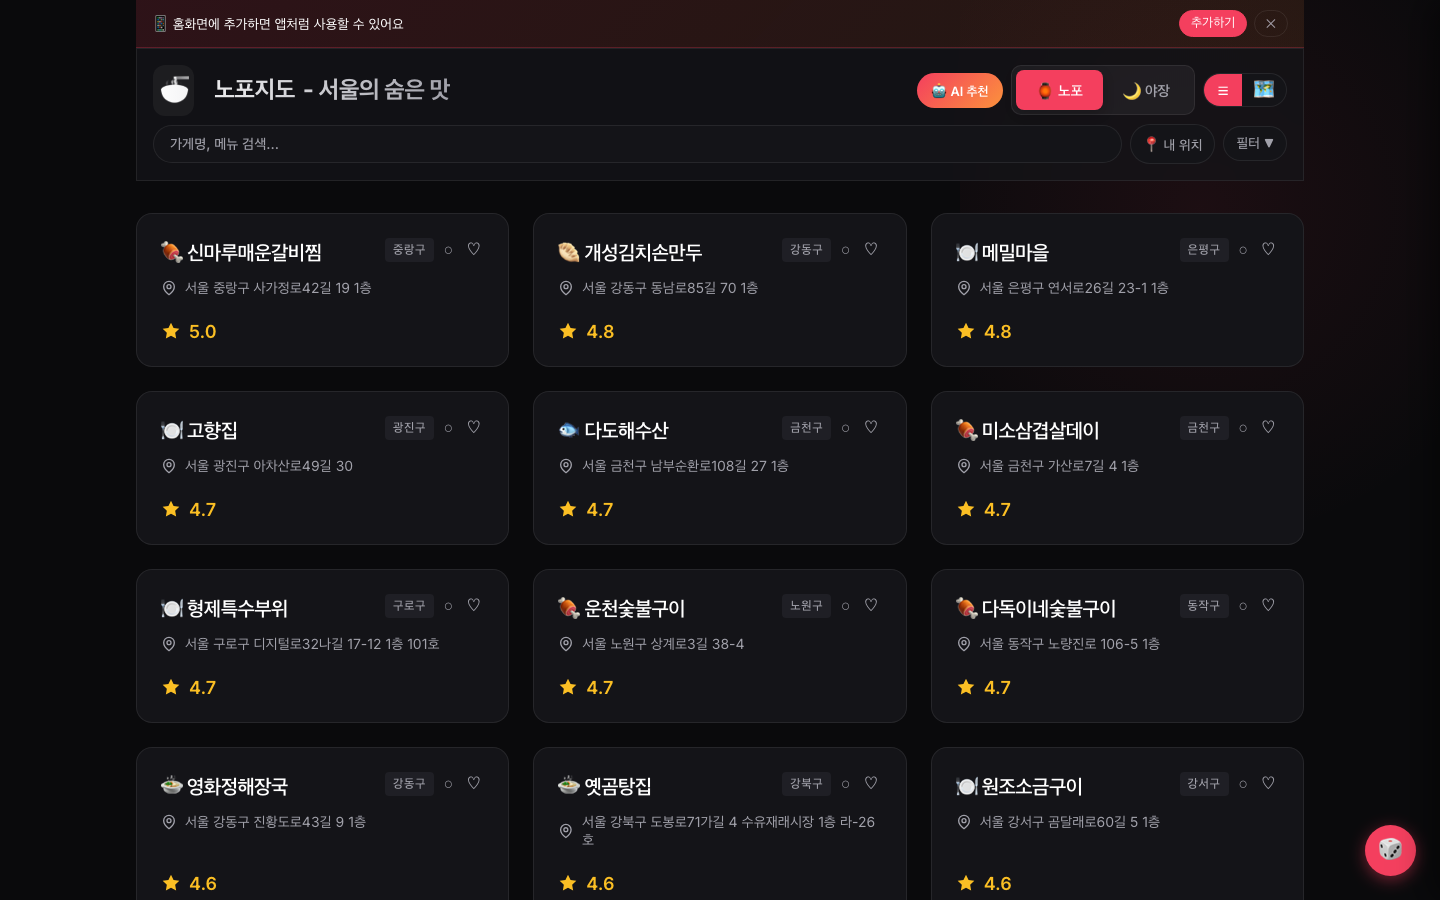
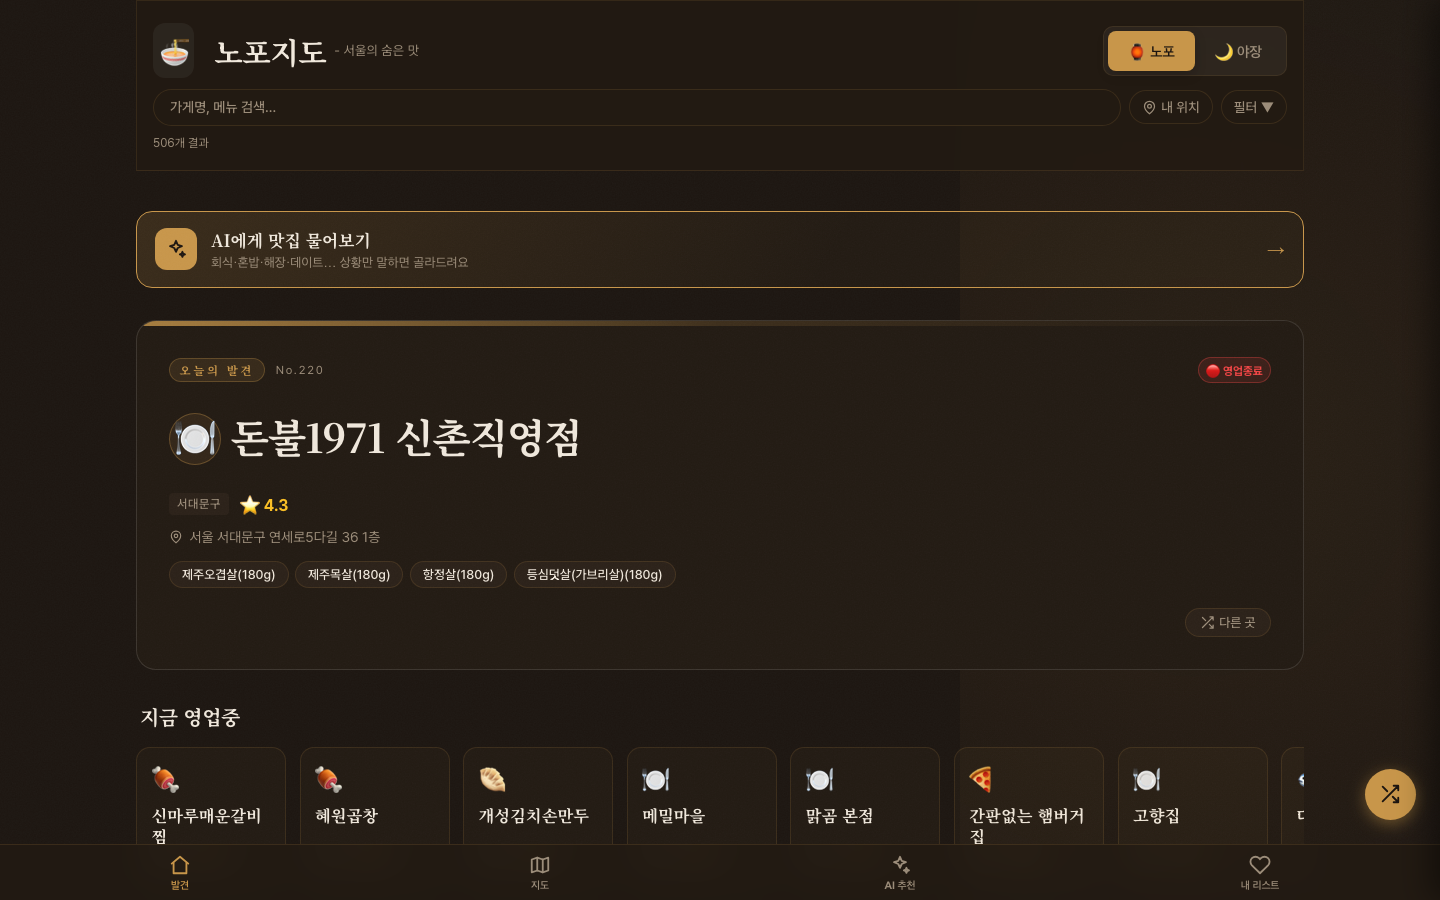
chore(noodle): refresh screenshot + copy for the app-style redesign
The side project moved to a bottom-tab IA (발견·지도·AI 추천·내 리스트)
and gained UGC — photo reviews, helpful votes, search-this-area.

Screenshot re-captured with the onboarding modal and PWA install banner
pre-dismissed (localStorage seeded via CDP), so the card shows the real
Discover feed instead of a first-visit overlay.

diff --git a/lib/profile.ts b/lib/profile.ts
@@ -169,11 +169,11 @@ const profileKo = {
       name: "노포지도 🍜",
       tagline: "서울 노포·야장 800여 곳을 한 지도에서 — AI 맛집 추천까지",
       description:
-        "본인 취미(맛집 지도 정리)를 product로 만든 사이드 프로젝트. Selenium 크롤러 → SQLite → React + Leaflet 풀스택을 end-to-end로 직접 구축하고 PWA + GitHub Actions 주간 자동 크롤링까지 운영. Gemini 3.6 Flash 챗봇이 노포지도 데이터에 grounding해 실재하는 식당만 조건별로 추천 (\"비 오는 날 종로구 노포 술집 추천해줘\" 등).",
+        "본인 취미(맛집 지도 정리)를 product로 만든 사이드 프로젝트. Selenium 크롤러 → SQLite → React + Leaflet 풀스택을 end-to-end로 직접 구축하고 PWA + GitHub Actions 주간 자동 크롤링까지 운영. Gemini 3.6 Flash 챗봇이 노포지도 데이터에 grounding해 실재하는 식당만 조건별로 추천. 최근에는 앱형 하단 탭 IA(발견·지도·AI 추천·내 리스트)로 재설계하고, 사진 리뷰·도움돼요·지역 재검색 등 UGC 기능을 추가했어요.",
       highlights: [
         "800+ restaurants",
         "AI 맛집 추천 챗봇",
-        "PWA · Offline cache",
+        "사진 리뷰 · 도움돼요",
         "Weekly GHA cron",
       ],
     },
@@ -349,11 +349,11 @@ const profileEn: typeof profileKo = {
       name: "Nopo Map 🍜",
       tagline: "800+ of Seoul's old-school & street-food spots on one map — with AI recommendations",
       description:
-        "Turned a personal hobby (mapping restaurants) into a product. Built the full stack end-to-end — Selenium crawler → SQLite → React + Leaflet — plus a PWA offline cache and a weekly GitHub Actions crawl. A Gemini 3.6 Flash chatbot, grounded on the Nopo Map dataset, recommends only real spots by free-form criteria (e.g. \"a cozy place near Jongno for a rainy day\").",
+        "Turned a personal hobby (mapping restaurants) into a product. Built the full stack end-to-end — Selenium crawler → SQLite → React + Leaflet — plus a PWA offline cache and a weekly GitHub Actions crawl. A Gemini 3.6 Flash chatbot, grounded on the Nopo Map dataset, recommends only real spots by free-form criteria. Recently restructured into an app-style bottom-tab IA (Discover · Map · AI · My List) and added UGC features — photo reviews, helpful votes, and search-this-area.",
       highlights: [
         "800+ restaurants",
         "AI recommendation chatbot",
-        "PWA · offline cache",
+        "Photo reviews · helpful votes",
         "Weekly GHA cron",
       ],
     },
